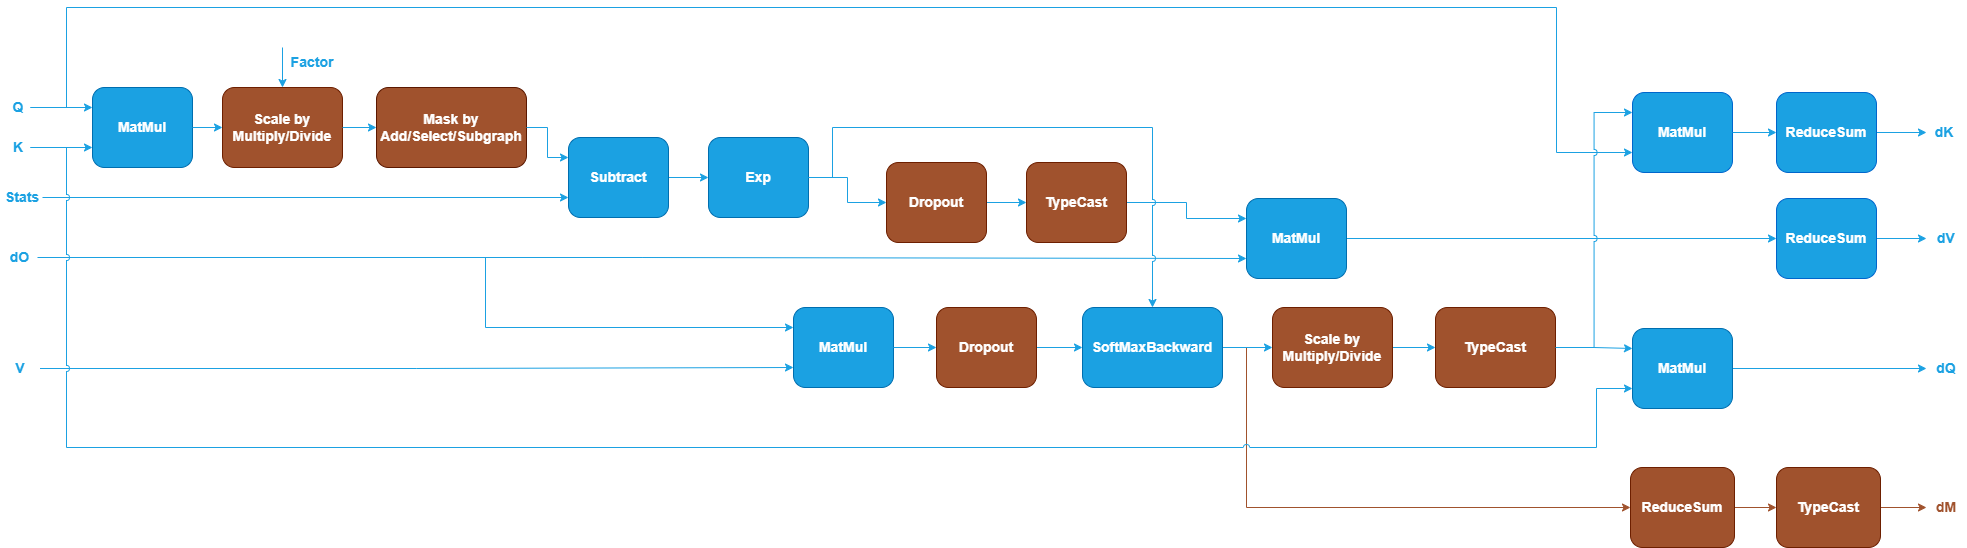
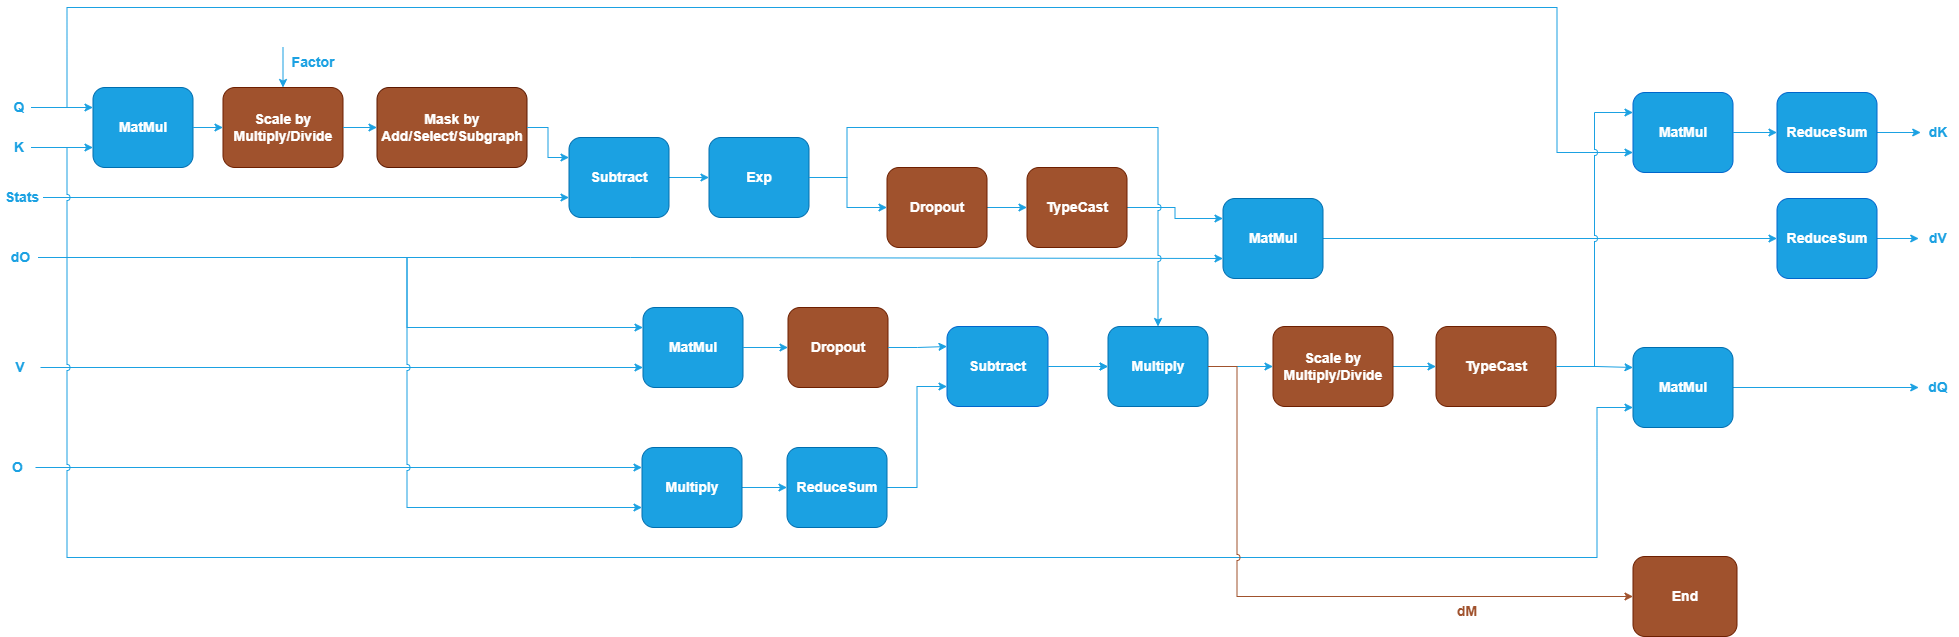
doc: graph: update sdpa and gqa backward pattern

diff --git a/doc/graph/fusion_patterns/gqa.md b/doc/graph/fusion_patterns/gqa.md
@@ -132,15 +132,17 @@ The blue nodes are required while the brown nodes are optional.
 7. The Dropout operation takes the gradients of the dropped probabilities as
    input and computes gradients with respect to the normalized probabilities.
    See [Dropout](@ref dev_guide_op_dropout) in Graph API.
-8. The SoftMaxBackward operation computes the gradients of the scaled output.
-   See [SoftMaxBackward](@ref dev_guide_op_softmaxbackward) in Graph API.
-9. The Scale node after SoftMaxBackward corresponds to the forward Scale node
+8. The Multiply, ReduceSum, Subtract, and Multiply operations are used to
+   compute the gradients with respect to the scaled output according to the
+   formula: dS = P * (dP - ReduceSum(O * dO)), where P denotes the normalized
+   probabilities and dP denotes the gradients with respect to them.
+9. The Scale node after Multiply corresponds to the forward Scale node
    and is used to compute the gradients of the score.
 10. The TypeCast, two MatMul and ReduceSum operations after the Scale node
    compute the gradients with respect to Query and Key, respectively. TypeCast
    is required for bf16 and f16 training scenarios. ReduceSum reduces the Key
    gradients from (N, H_kv, N_rep, S, D) to (N, H_kv, 1, S, D).
-11. The optional End operation marks the output of SoftMaxBackward as a
+11. The optional End operation marks the output of Multiply as a
     partition output, representing the gradients with respect to the Mask. Note
     that the output shape of `dM` is (N, H_kv, N_rep, S, S) and the data
     type is f32. The library does not perform any reduction or typecast on this

diff --git a/doc/graph/fusion_patterns/sdpa.md b/doc/graph/fusion_patterns/sdpa.md
@@ -135,14 +135,16 @@ are optional.
 7. The Dropout operation takes the gradients of the dropped probabilities as
    input and computes gradients with respect to the normalized probabilities.
    See [Dropout](@ref dev_guide_op_dropout) in Graph API.
-8. The SoftMaxBackward operation computes the gradients of the scaled output.
-   See [SoftMaxBackward](@ref dev_guide_op_softmaxbackward) in Graph API.
-9. The Scale node after SoftMaxBackward corresponds to the forward Scale node
+8. The Multiply, ReduceSum, Subtract, and Multiply operations are used to
+   compute the gradients with respect to the scaled output according to the
+   formula: dS = P * (dP - ReduceSum(O * dO)), where P denotes the normalized
+   probabilities and dP denotes the gradients with respect to them.
+9. The Scale node after Multiply corresponds to the forward Scale node
    and is used to compute the gradients of the score.
 10. The TypeCast and two MatMul operations after the Scale node compute the
    gradients with respect to Query and Key, respectively. TypeCast is required
    for bf16 and f16 training scenarios.
-11. The optional End operation marks the output of SoftMaxBackward as a
+11. The optional End operation marks the output of Multiply as a
     partition output, representing the gradients with respect to the Mask. Note
     that the output shape of `dM` is (N, H, S, S) and the data
     type is f32. The library does not perform any reduction or typecast on this
